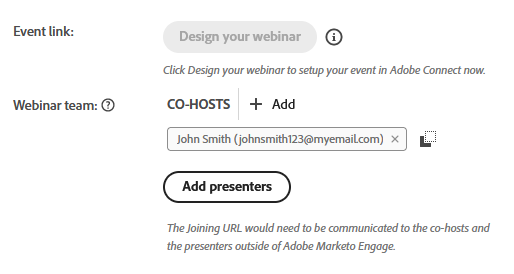
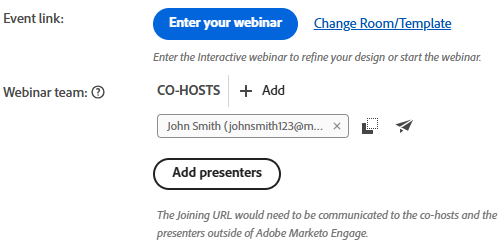
updating add webinar team doc

diff --git a/help/marketo/product-docs/demand-generation/events/interactive-webinars/add-a-webinar-team.md b/help/marketo/product-docs/demand-generation/events/interactive-webinars/add-a-webinar-team.md
@@ -8,10 +8,6 @@ exl-id: eff0b69a-0ffe-45b4-8170-cd57894ab926
 
 A Webinar Team in Interactive Webinars consists of all the roles that contribute to the successful delivery of the webinar in Adobe Connect. This includes both presenters and co-hosts.
 
->[!IMPORTANT]
->
->It is highly recommended that you [design your webinar](/help/marketo/product-docs/demand-generation/events/interactive-webinars/designing-interactive-webinars.md){target="_blank"} _before_ adding presenters or co-hosts.
-
 >[!NOTE]
 >
 >Presenters and co-hosts in Marketo Engage map exactly to the roles of presenter and host during the webinar delivery in Adobe Connect. Co-hosts can modify the layouts and pods, whereas presenters can not.
@@ -46,6 +42,10 @@ The presenter is an external role that participates in delivering the webinar ex
 
    ![](assets/add-a-webinar-team-4.png)
 
+>[!NOTE]
+>
+> The ![copy co-host URL icon](assets/icon-copy-join-url.png) icon copies the co-host joining URL, and the ![send co-host an invitation email](assets/icon-send-invitation-email.png) icon sends the co-host an invitation email. 
+
 ## Add a Presenter {#add-a-presenter}
 
 1. In the Interactive Webinar's Overview page, click **Add presenters**.
@@ -64,9 +64,9 @@ The presenter is an external role that participates in delivering the webinar ex
 
    ![](assets/add-a-webinar-team-7.png)
 
->[!TIP]
+>[!NOTE]
 >
->After adding a Webinar Team, you can click the copy icon next to each user to copy (then share) their joining URLs.
+> The ![copy presenter URL icon](assets/icon-copy-join-url.png) icon copies the presenter joining URL, and the ![send presenter an invitation email](assets/icon-send-invitation-email.png) icon sends the presenter an invitation email.
 
 >[!MORELIKETHIS]
 >
